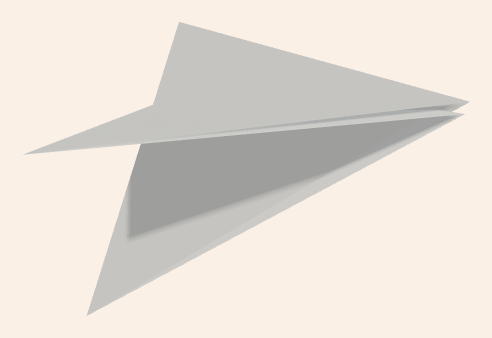
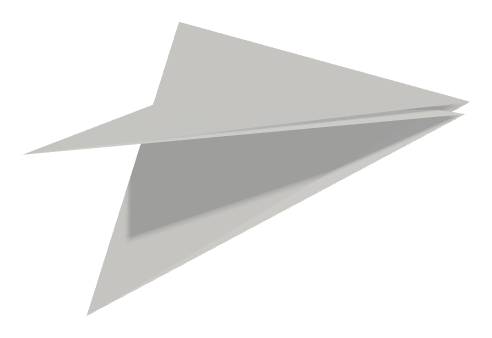
Match reference panel and previews to the selected theme

diff --git a/lab.css b/lab.css
@@ -19,7 +19,7 @@ h1{font:35px/1.13 Georgia,serif;letter-spacing:-1px;margin:20px 0}h2{font:28px/1
 .foldbox{background:var(--panel);padding:20px;border-radius:12px;margin-top:12px}.foldbox label{display:flex;justify-content:space-between;font-size:16px}output{font:28px Georgia,serif}input[type=range]{width:100%;accent-color:var(--accent);margin:18px 0}.ends{display:flex;justify-content:space-between;font-size:8px;letter-spacing:1.5px;margin-bottom:16px}.actions{justify-content:center;gap:32px}
 .icon-button{position:relative;display:inline-flex;align-items:center;justify-content:center;width:44px;height:44px;padding:10px;flex-shrink:0}.icon-button svg{width:23px;height:23px;display:block}.upload{position:relative}.upload input{display:block;position:absolute;inset:0;width:100%;height:100%;opacity:0;cursor:pointer}.upload:focus-within{outline:3px solid var(--accent);outline-offset:4px}header #importIcon{display:block}
 .notes{border-left:1px solid var(--line);border-right:0;padding:26px 22px;overflow-y:auto}.notes>.eyebrow{margin-top:0}#description{font-size:13px;line-height:1.65;margin:0 0 10px}#credit{display:block;font-size:10px}
-.finished{margin:18px 0 0}.finished img{display:block;width:100%;aspect-ratio:1.35;object-fit:contain;background:#faf0e6;border-radius:12px}.finished figcaption{font-size:9px;color:var(--muted);margin-top:8px;text-align:center}
+.finished{margin:18px 0 0}.finished img{display:block;width:100%;aspect-ratio:1.35;object-fit:contain;background:transparent;border-radius:12px}.finished figcaption{font-size:9px;color:var(--muted);margin-top:8px;text-align:center}
 .appearance{border-top:1px solid var(--line);margin-top:22px;padding-top:18px}fieldset{margin:0 0 20px;padding:0;border:0;min-width:0}legend{font-size:12px;width:100%;padding:0;margin-bottom:12px;font-weight:600}legend span{float:right;color:var(--muted);font-size:11px;font-weight:400}
 .theme-options{display:grid;grid-template-columns:repeat(5,1fr);gap:12px}.theme-swatch{padding:0;height:39px;font:20px Georgia,serif;position:relative;border:1px solid var(--line)}.theme-swatch[aria-pressed=true]{outline:2px solid var(--accent);outline-offset:3px}
 .paper-options{display:grid;grid-template-columns:repeat(8,minmax(0,1fr));gap:10px}.paper-swatch{position:relative;padding:0;width:100%;aspect-ratio:1;border-radius:50%;background:var(--swatch)!important;border:1px solid #8888}.paper-swatch:hover{transform:scale(1.1)}.paper-swatch[aria-pressed=true]{outline:2px solid var(--accent);outline-offset:3px}
@@ -30,3 +30,6 @@ details{margin-top:10px}summary{cursor:pointer;font-size:12px}.notes details but
 @media(prefers-reduced-motion:reduce){*{scroll-behavior:auto!important}}
 
 .brand{display:inline-flex;align-items:center;gap:9px}.crane-logo{width:38px;height:32px;flex-shrink:0}@media(max-width:600px){.crane-logo{width:30px;height:26px}.brand{gap:6px}}
+
+.notes{background:var(--panel)}
+.notes{--muted:color-mix(in srgb,var(--ink) 80%,var(--panel))}

diff --git a/engine/js/threeView.js b/engine/js/threeView.js
@@ -9,7 +9,7 @@ function initThreeView(globals) {
 
     var camera = new THREE.PerspectiveCamera(60, window.innerWidth/window.innerHeight, 0.1, 500);
     // var camera = new THREE.OrthographicCamera(window.innerWidth / -2, window.innerWidth / 2, window.innerHeight / 2, window.innerHeight / -2, -10000, 10000);//-40, 40);
-    var renderer = new THREE.WebGLRenderer({antialias: true});
+    var renderer = new THREE.WebGLRenderer({antialias: true, alpha: true});
     // var svgRenderer = new THREE.SVGRenderer();
     var controls;
 

diff --git a/tests/render_references.py b/tests/render_references.py
@@ -5,7 +5,9 @@ with sync_playwright() as p:
  b=p.chromium.launch(args=['--no-sandbox','--use-angle=swiftshader','--enable-unsafe-swiftshader']);page=b.new_page(viewport={'width':1440,'height':1000});page.goto('http://127.0.0.1:8080/Origami-Demo/');page.wait_for_function('origami.getSnapshot().patternId')
  for pat in page.evaluate('origami.patterns'):
   page.evaluate('(id)=>origami.loadPattern(id)',pat['id']);page.locator('#fold').fill('80');page.locator('#fold').dispatch_event('input');page.wait_for_timeout(1600)
+  page.evaluate('''()=>{document.documentElement.style.setProperty('background','transparent','important');document.body.style.setProperty('background','transparent','important')}''')
+  page.frames[1].evaluate('''()=>{document.documentElement.style.setProperty('background','transparent','important');document.body.style.setProperty('background','transparent','important');globals.threeView.scene.background=null;globals.threeView.renderer.setClearColor(0x000000,0)}''')
   rect=page.frames[1].evaluate('''()=>{const g=globals,T=THREE,r=g.threeView.renderer,c=g.threeView.camera;r.render(g.threeView.scene,c);const a=g.model.getPositionsArray(),mesh=g.model.getMesh()[0];let xs=[],ys=[];for(let i=0;i<a.length;i+=3){const v=new T.Vector3(a[i],a[i+1],a[i+2]);mesh.localToWorld(v);v.project(c);xs.push((v.x+1)*innerWidth/2);ys.push((1-v.y)*innerHeight/2)}const pad=22,x=Math.max(0,Math.min(...xs)-pad),y=Math.max(0,Math.min(...ys)-pad);return {x,y,width:Math.min(innerWidth,Math.max(...xs)+pad)-x,height:Math.min(innerHeight,Math.max(...ys)+pad)-y}}''')
   box=page.locator('iframe').bounding_box();rect['x']+=box['x'];rect['y']+=box['y'];assert rect['width']>0 and rect['height']>0
-  page.screenshot(path=str(root/'docs/finished'/str(pat['id']+'.png')),clip=rect);print('FRAMED',pat['id'],flush=True)
+  page.screenshot(path=str(root/'docs/finished'/str(pat['id']+'.png')),clip=rect,omit_background=True);print('FRAMED',pat['id'],flush=True)
  b.close()

diff --git a/tests/appearance.py b/tests/appearance.py
@@ -16,6 +16,8 @@ with sync_playwright() as p:
  for t in page.evaluate('studioThemes'):
   page.locator('[data-theme='+t['id']+']').click()
   assert page.frames[1].evaluate('globals.threeView.scene.background.getHexString()')==t['bg'][1:]
+  rgb=tuple(int(t['panel'][i:i+2],16) for i in (1,3,5))
+  assert page.locator('.notes').evaluate('e=>getComputedStyle(e).backgroundColor')=='rgb(%d, %d, %d)'%rgb
   assert page.evaluate('origami.getSnapshot().paperColor')=='Ivory'
   assert page.evaluate('getComputedStyle(document.body).color')!=page.evaluate('getComputedStyle(document.body).backgroundColor')
  for name in ['Coral','Rebecca Purple','Sea Green','Black','Ivory']:

diff --git a/docs/UPSTREAM.md b/docs/UPSTREAM.md
@@ -27,3 +27,5 @@ Camera framing now scales its zoom with viewport aspect ratio on initialization 
 ## Appearance and reference panel
 
 `appearance.js` owns five UI/background palettes and 48 CSS named paper swatches. CSS variables theme the page; the adapter updates the renderer background, paper material, and crease line colors. Stored selections are validated before reuse and theme/paper settings remain independent across resets, imports and pattern changes. Theme changes preserve paper/crease visibility. The camera icon downloads a PNG of the current renderer; A/B comparison and observation challenges have been removed. Pre-rendered folded references keep this UI to a single live solver.
+
+Folded reference PNGs now preserve transparency. The renderer supports an alpha channel while the interactive scene still uses the selected theme background. The reference renderer temporarily clears the scene background and captures only the projected model bounds; the panel supplies the themed background at display time.

diff --git a/docs/VALIDATION.md b/docs/VALIDATION.md
@@ -45,3 +45,7 @@ Final `tests/collection_range.py` run: all 25 patterns also passed at the 80% sl
 - Preferences use localStorage with validated values and a fallback if storage is unavailable. No color-wheel inputs, external palette libraries, or backend endpoints were added.
 
 The updated existing browser smoke suite also passed all three representative patterns, resets, paper/crease switches, PNG screenshots, FOLD/OBJ exports, FOLD reimport and invalid-import recovery, with no page-level JavaScript errors.
+
+## Publishing and panel background
+
+Header branding uses the original inline crane SVG; the introduction now explains the Japanese roots of “origami.” Local browser checks passed app startup, trivia/logo presence, 25 collection entries and mobile width. GitHub Pages publishes via the repository's Actions workflow. The right panel uses the existing theme's toned panel color; reference PNGs have transparent backgrounds so they blend with it.
